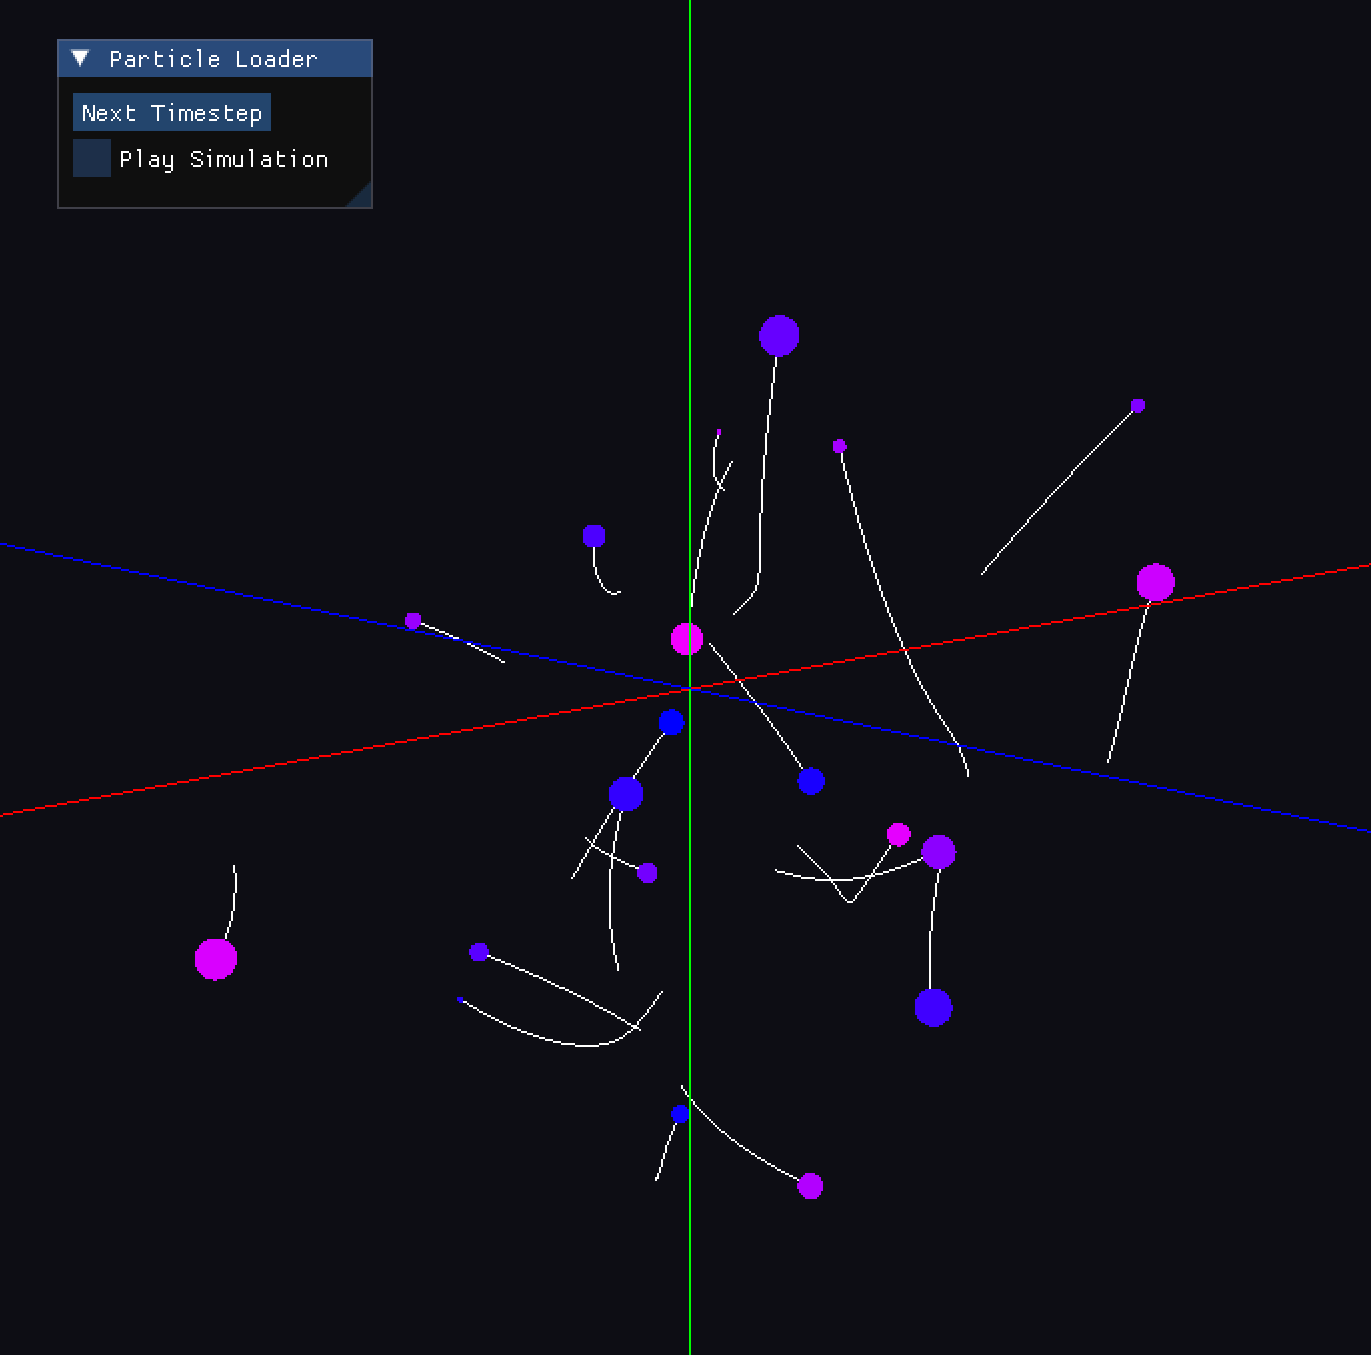
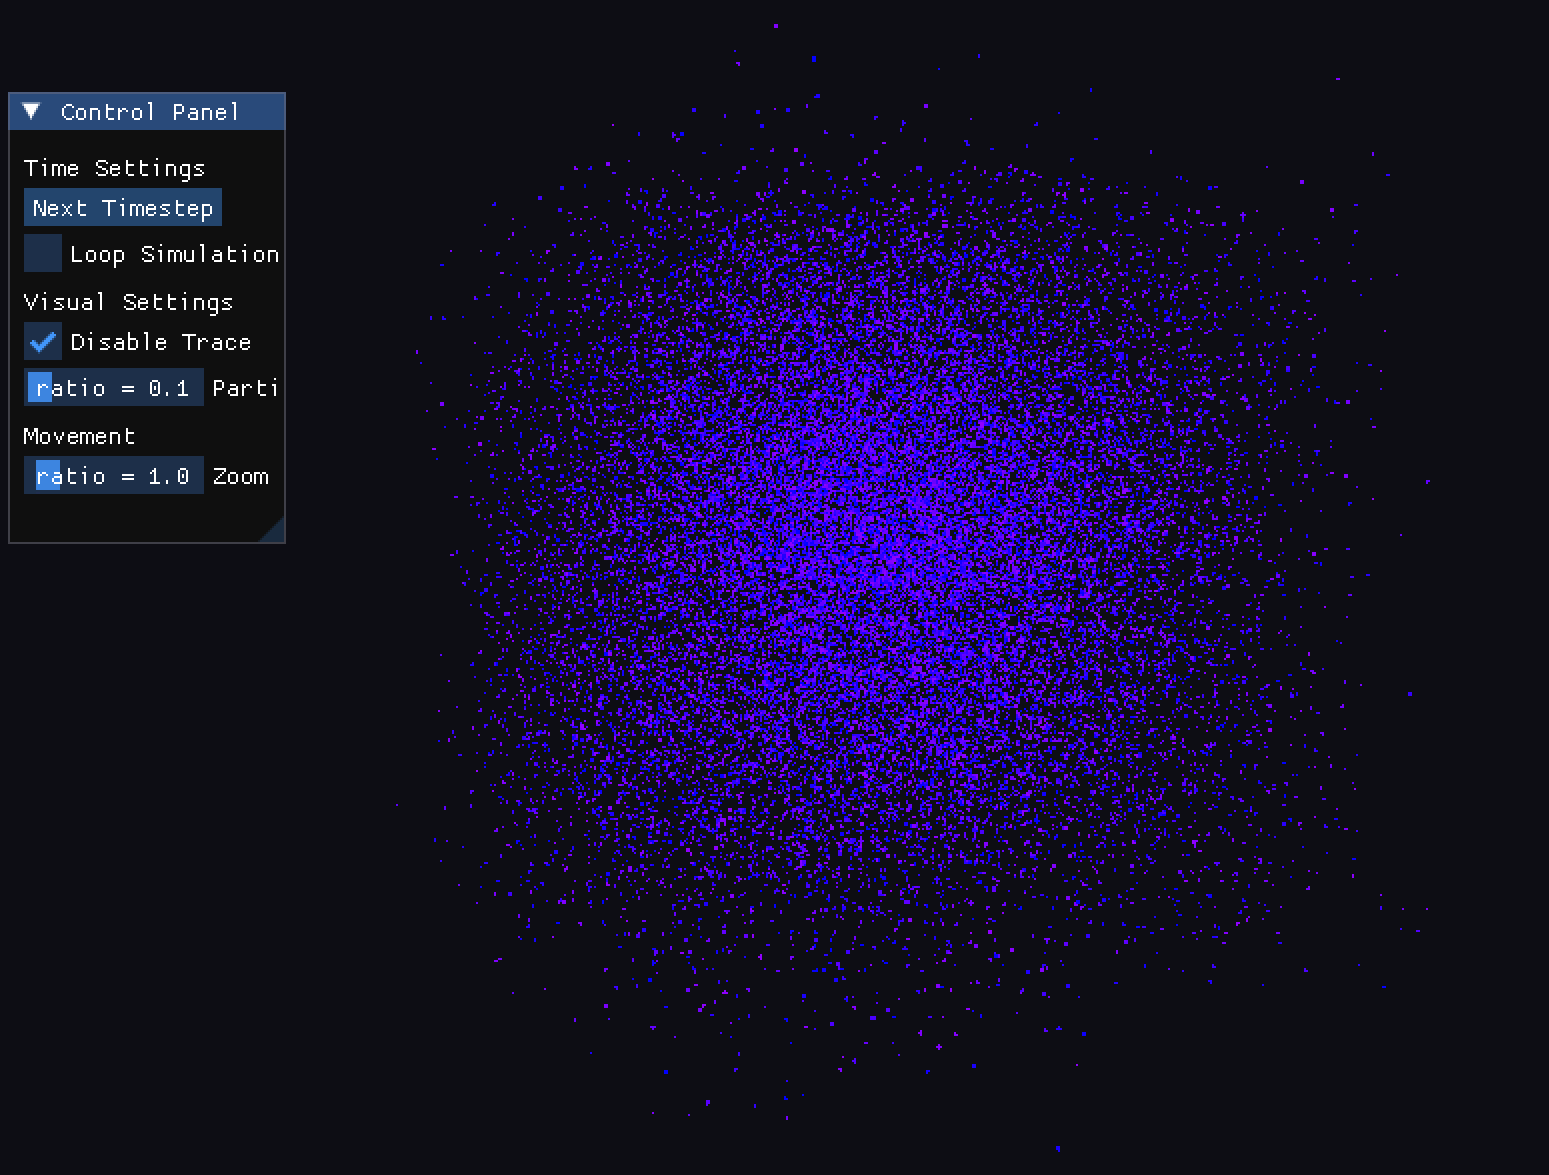
update README with new visualization

diff --git a/README.md b/README.md
@@ -5,7 +5,9 @@ It refers to the challenge of predicting the motion of bodies over time and how 
 
 This project contains multiple implementations of the N-body problem for comparison between serial, parallel, and reduced versions of the algorithm. 
 
-Using the generated data, a visualization tool is provided using OpenGL and GLFW to show the particles. It reads the generated files (for easier cluster offloading in the future) and can either play the simulation loop or load the next time frame one step at a time.
+Using the generated data, a visualization tool is provided using OpenGL, GLFW, and DearImGUI to show the particles. It reads the generated files (for easier cluster offloading in the future) and allows for full interactive movement around and into the particle mesh. Rendering is done using fully parallelized buffer instancing, meaning it can easily handle even *100,000* particles at a time! 
+* Use the WASD keys to move around the mesh using in spherical coordinates.
+* Use the "Zoom" slider to move into the mesh or zoom out.
 
 ![visualization](images/vis.png)
 
